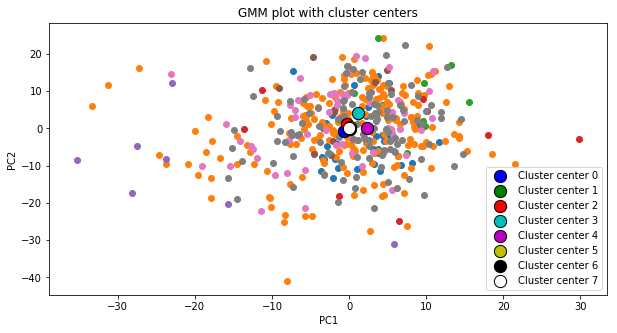
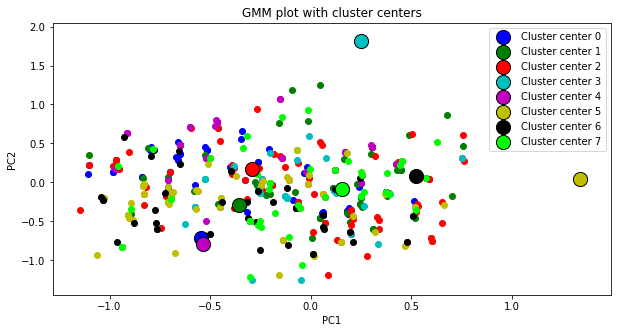
cluster plots

diff --git a/clustering-GMM.py b/clustering-GMM.py
@@ -100,7 +100,7 @@ plt.ylabel("PC2")
 plt.title("GMM plot with cluster centers")
 for i in range(8):
     plt.scatter(Z[clustering == i][:,0],Z[clustering == i][:,1],color=colors[i])
-    plt.scatter(gmm.means_[i,0],gmm.means_[i,1], s=200, facecolors=colors[i], edgecolors='k',label = "Cluster center "+str(i),zorder=2)
+    plt.scatter(gmm.means_[:,0][i],gmm.means_[:,1][i], s=200, facecolors=colors[i], edgecolors='k',label = "Cluster center "+str(i),zorder=2)
     
 for i in range(8):
     pass
